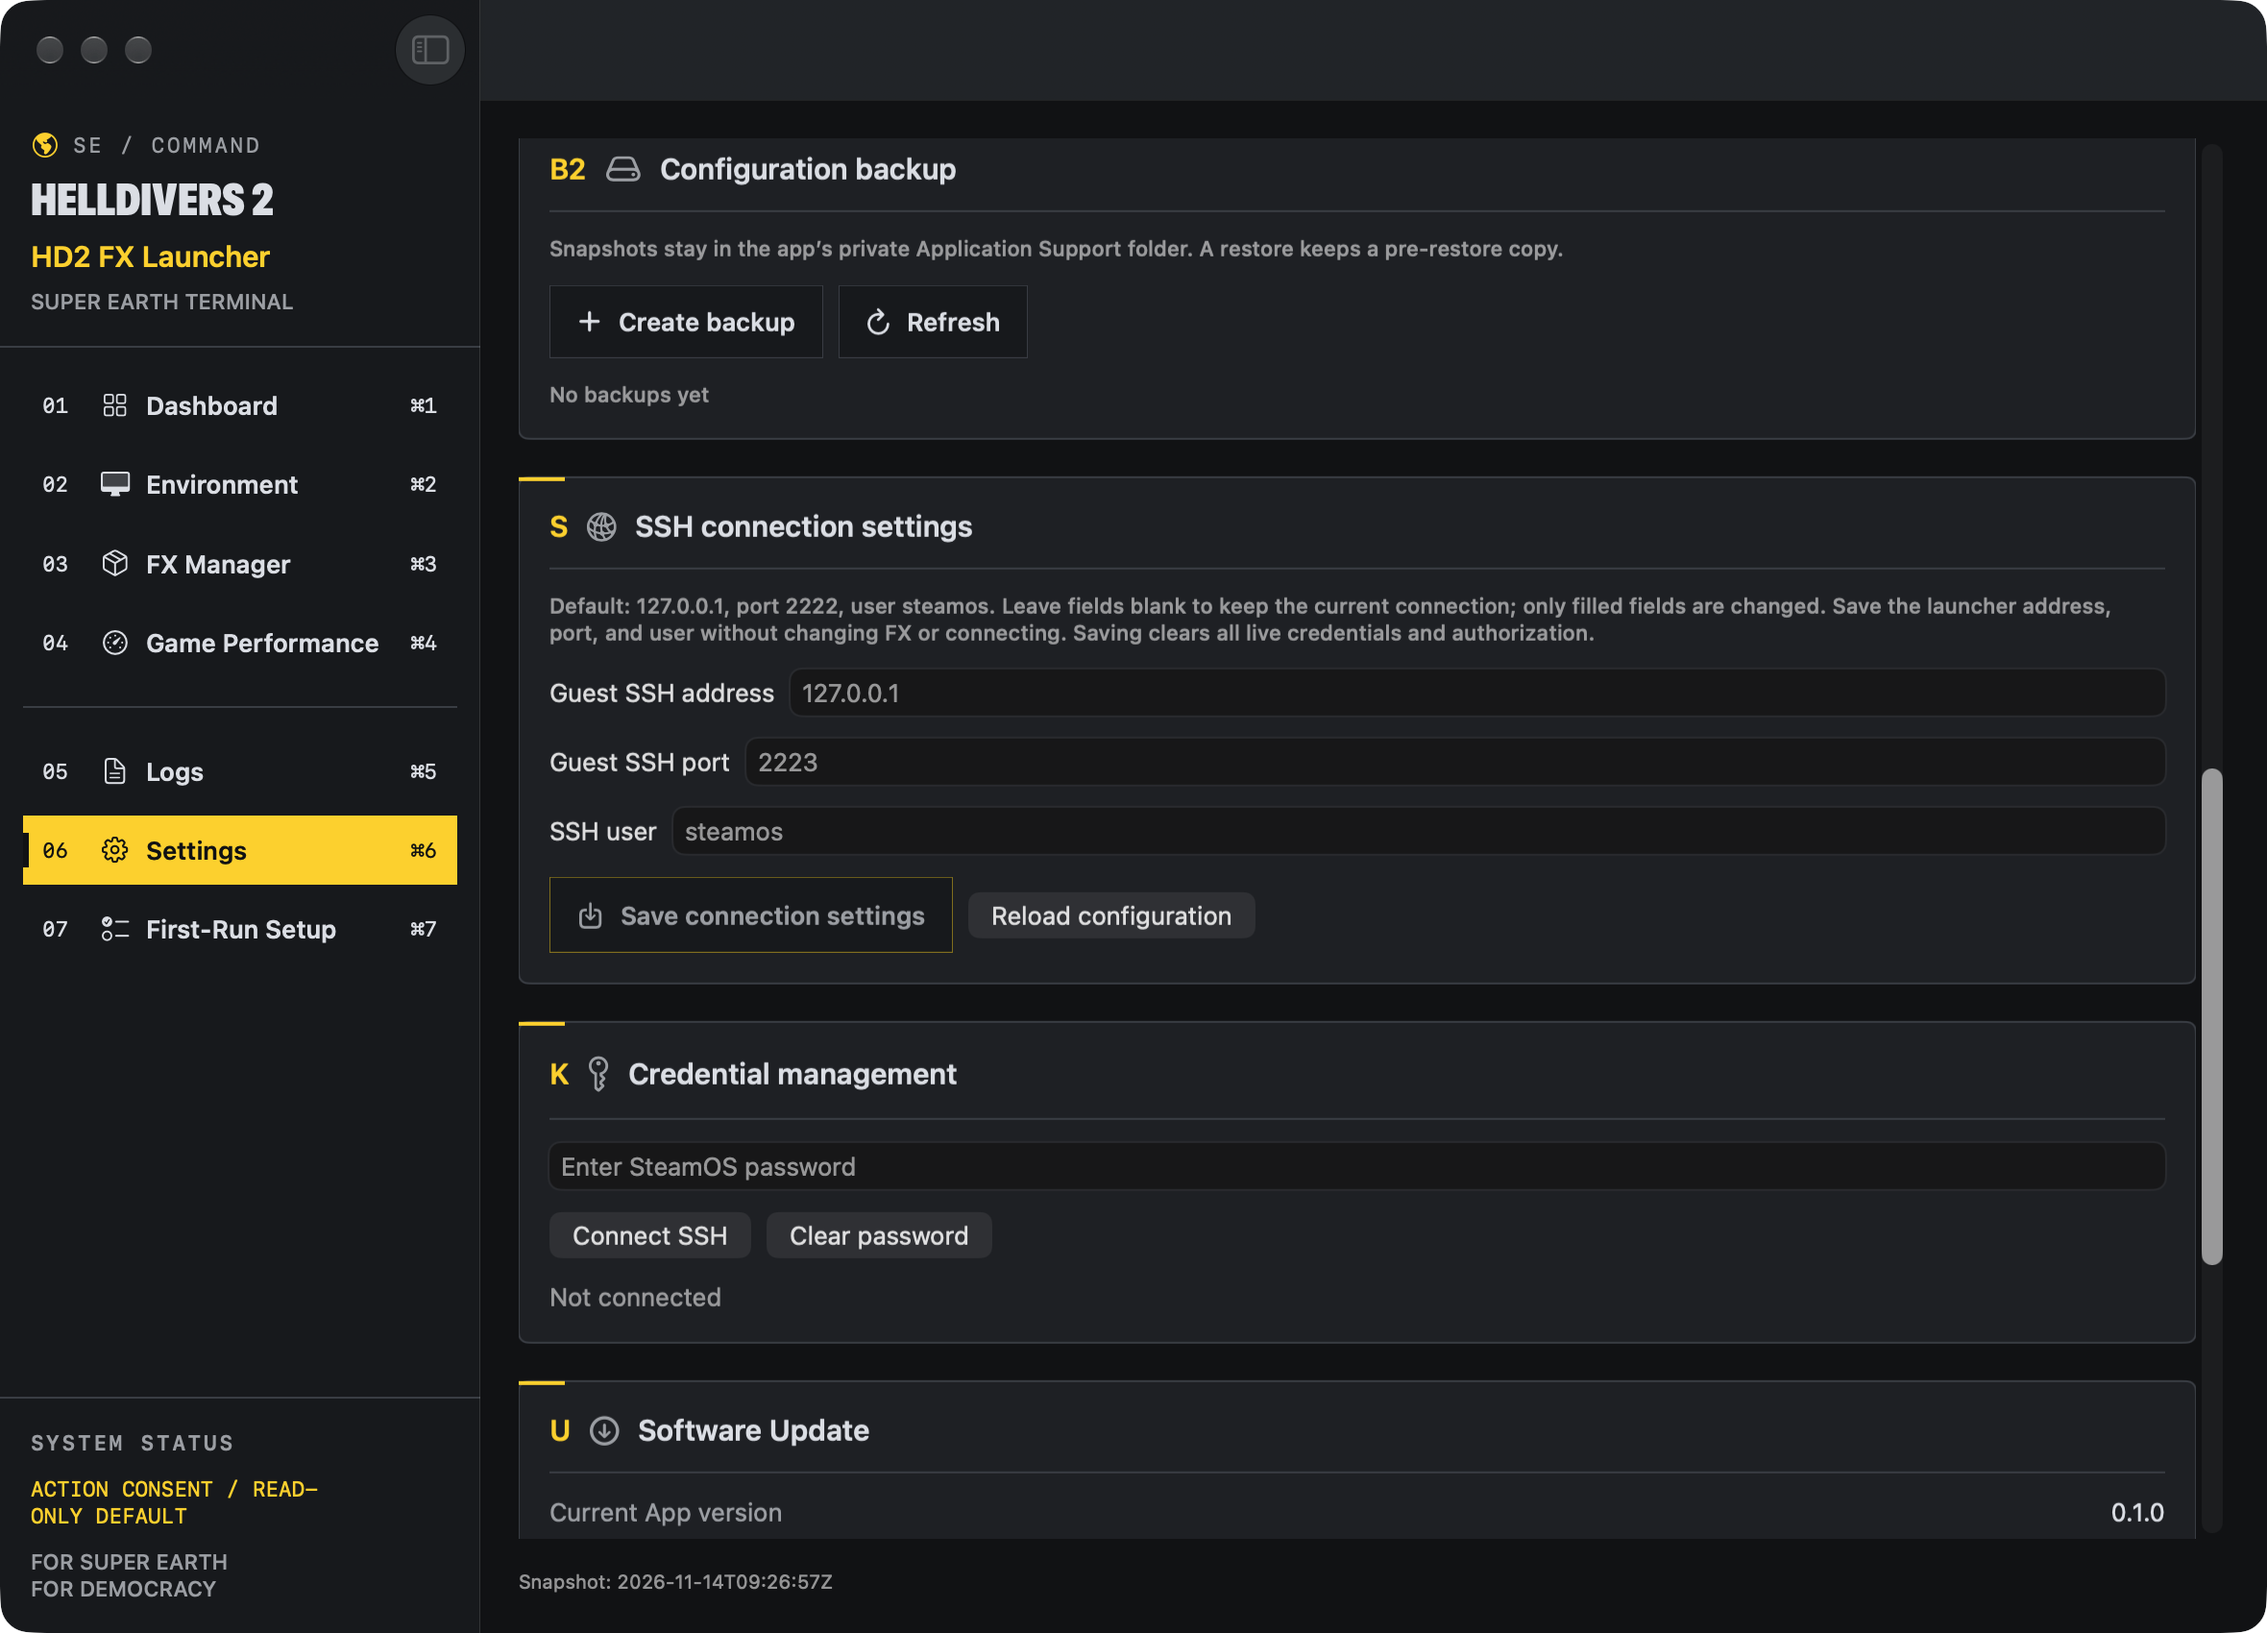
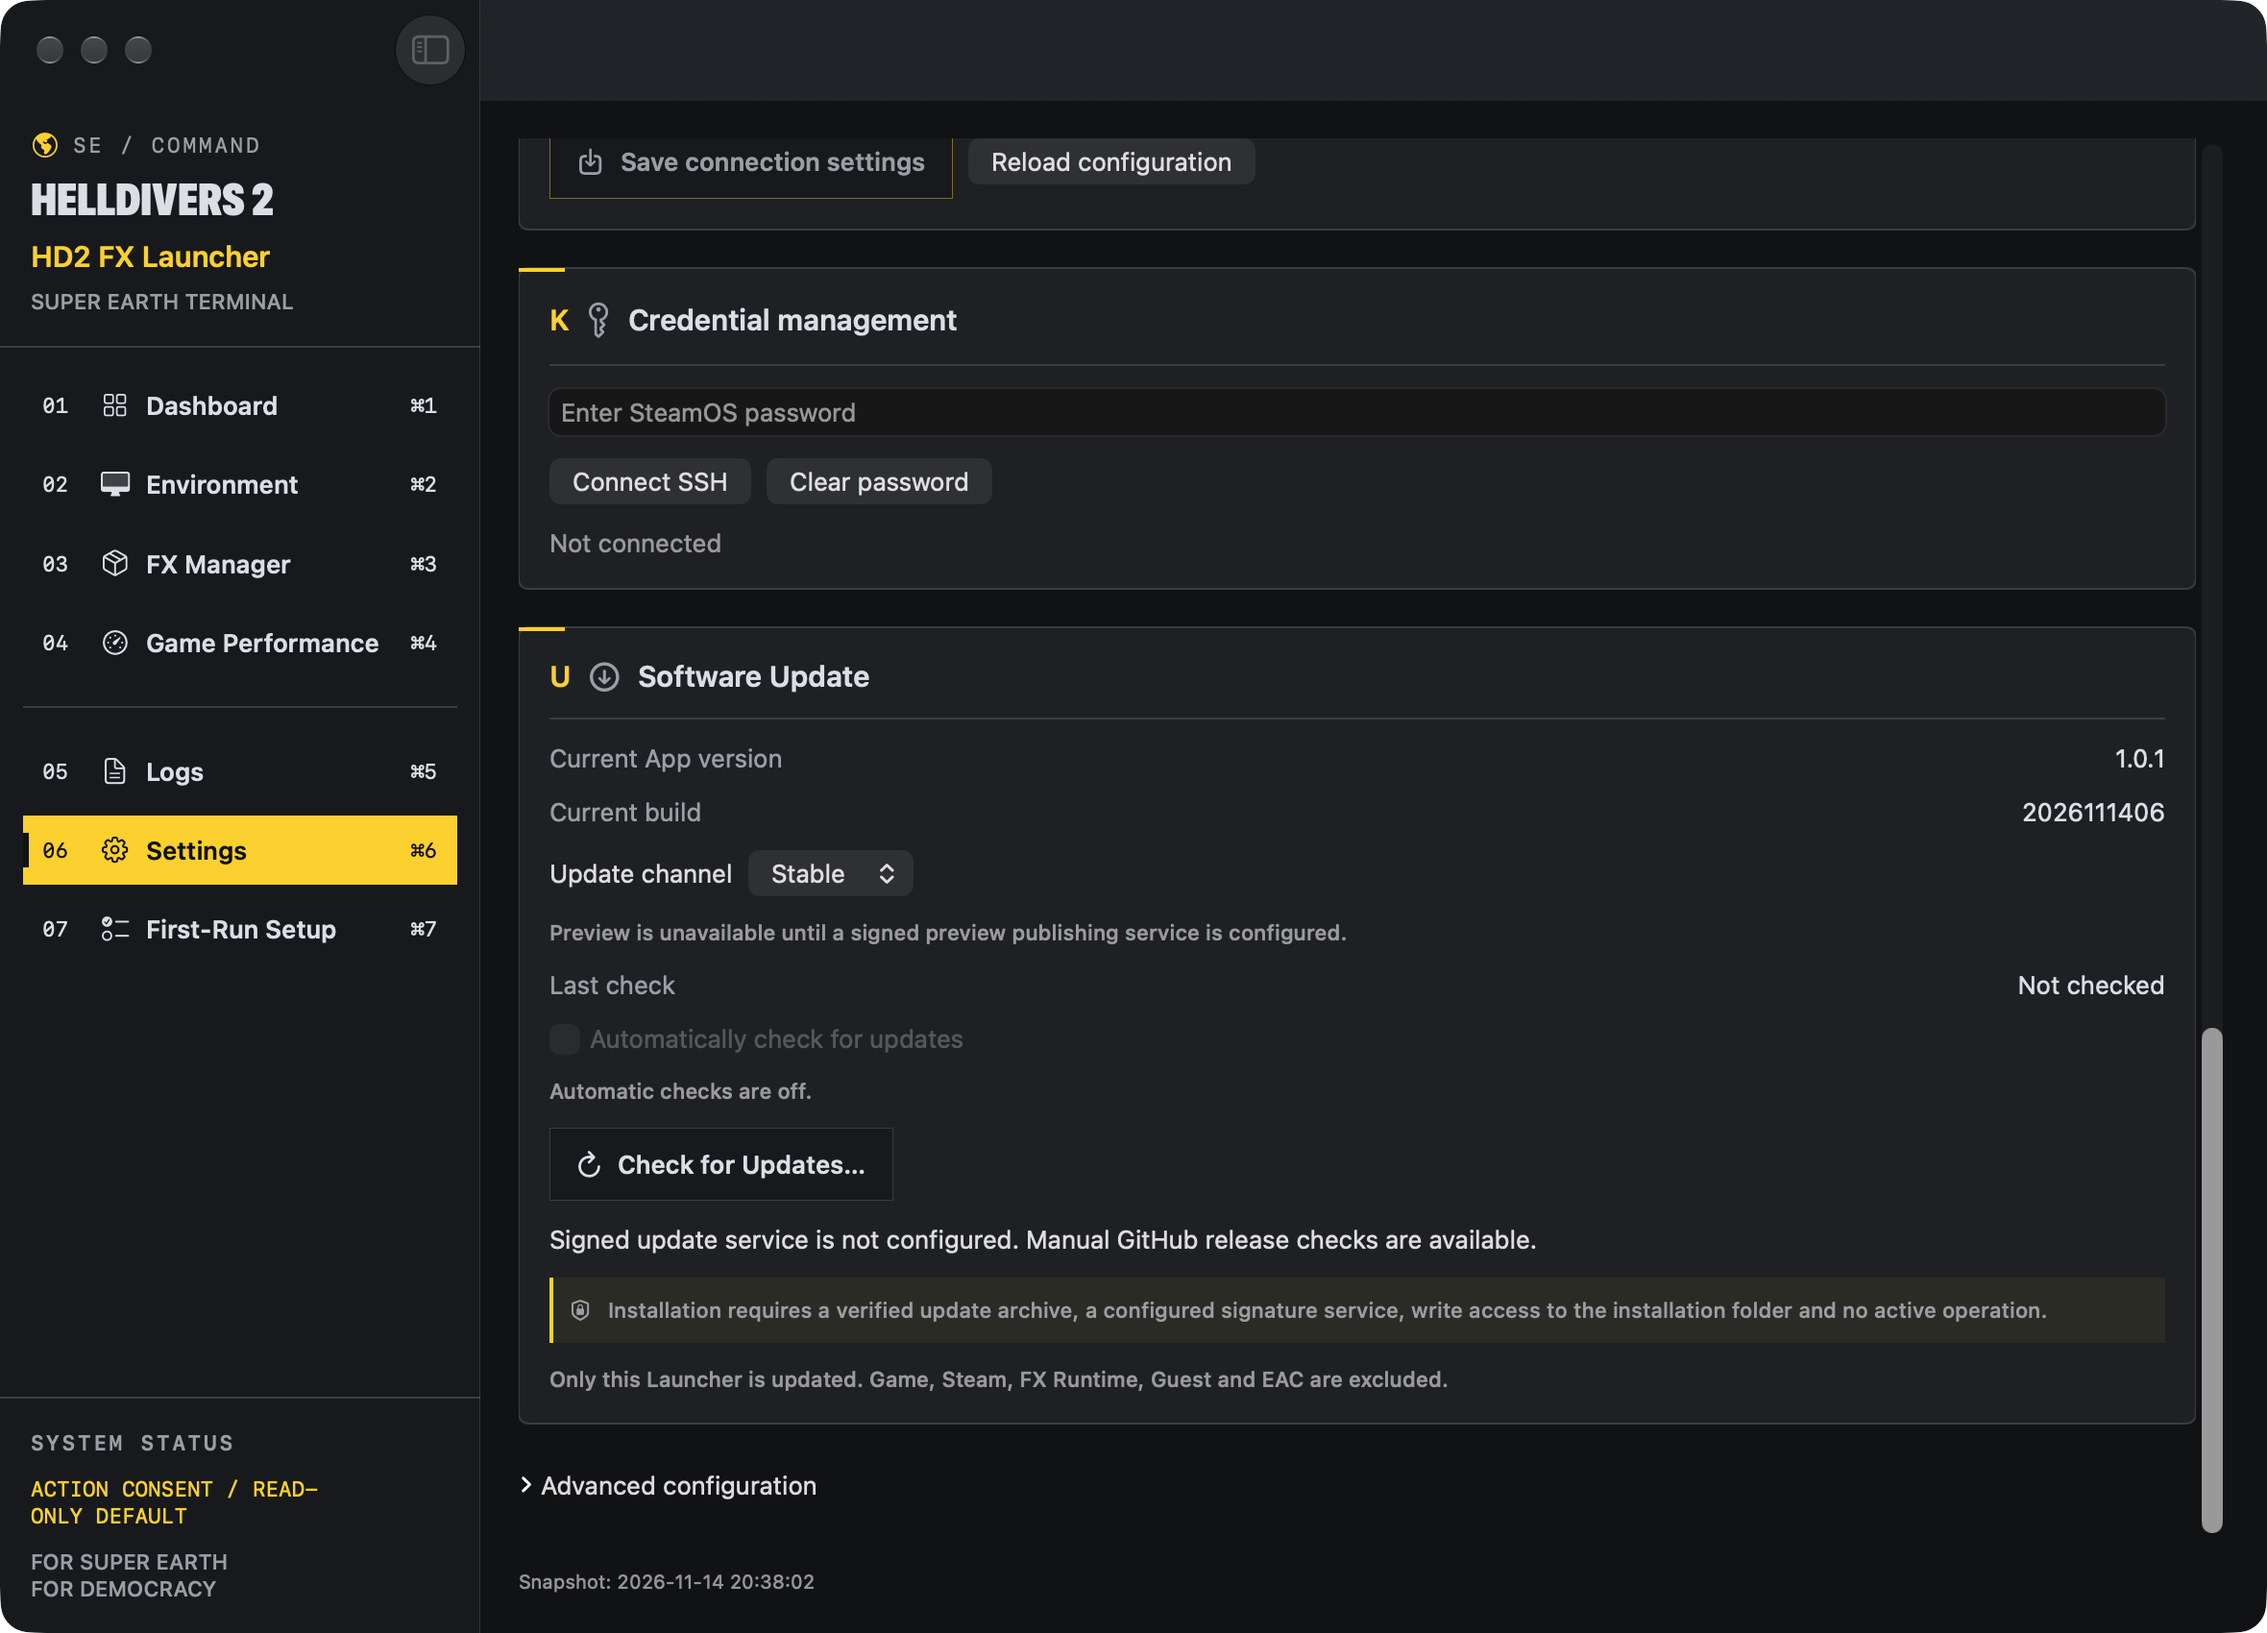
release: prepare v1.0.1 stable updater and bilingual documentation

diff --git a/README.md b/README.md
@@ -6,11 +6,11 @@
 
 [简体中文](README.zh-CN.md) | [English](README.md)
 
-### [🟨 ⬇ Download HD2 FX Launcher — Latest Stable](https://github.com/LSJOP/helldivers2-fx-launcher/releases/download/v1.0.0/HD2FXNative-v1.0.0-macOS-arm64.dmg)
+### [🟨 ⬇ Download HD2 FX Launcher — Latest Stable](https://github.com/LSJOP/helldivers2-fx-launcher/releases/download/v1.0.1/HD2FXNative-v1.0.1-macOS-arm64.dmg)
 
-**🟨 Stable Release · v1.0.0** · **macOS · Apple Silicon / arm64**
+**🟨 Stable Release · v1.0.1** · **macOS · Apple Silicon / arm64**
 
-**[⬇ Download DMG](https://github.com/LSJOP/helldivers2-fx-launcher/releases/download/v1.0.0/HD2FXNative-v1.0.0-macOS-arm64.dmg)** · [All Releases](https://github.com/LSJOP/helldivers2-fx-launcher/releases)
+**[⬇ Download DMG](https://github.com/LSJOP/helldivers2-fx-launcher/releases/download/v1.0.1/HD2FXNative-v1.0.1-macOS-arm64.dmg)** · [All Releases](https://github.com/LSJOP/helldivers2-fx-launcher/releases)
 
 ## English
 
@@ -20,7 +20,7 @@ FX 1.9.9 test-Guest repair now reaches the game through the GUI with the histori
 
 ### Screenshots
 
-These real bilingual windows were captured from the integrated Debug source on 2026-11-14 and visually reviewed. They show development changes under Unreleased, **not the published v1.0.0 DMG**; see [capture provenance](docs/images/README.md).
+Screenshots come from isolated Debug builds. The update panel capture uses a separate App identity and shows the service as unconfigured. See [capture provenance](docs/images/README.md).
 
 The Dashboard retains five cards: FX, virtual machine, Steam, EAC and multiplayer. Green identifies an observed FX/Steam process or a verified Guest SSH connection; yellow means an active check, red an explicit stage failure, and gray missing or stale evidence. Process detection, completed checks and menu/single-player confirmation do not establish EAC loading or multiplayer success. The isolated status matrix validates display logic; it does not establish live game readiness.
 
@@ -36,17 +36,17 @@ The Dashboard retains five cards: FX, virtual machine, Steam, EAC and multiplaye
 
 ### Features
 
-**Development candidate:** The Logs page displays local system time, streams bounded task events, supports auto-scroll and exports redacted raw ISO 8601 timestamps. Launch command success, process detection, window and gameplay remain separate; game-window and gameplay evidence are not automatic. This change is not included in the published v1.0.0 DMG.
+The Logs page displays local system time, streams bounded task events, supports auto-scroll and exports redacted raw ISO 8601 timestamps. Launch command success, process detection, window and gameplay remain separate; game-window and gameplay evidence are not automatic.
 
 - Dashboard starts the guarded HELLDIVERS 2 launch workflow. FX Manager inspects the selected FX installation and exposes supported FX/Steam actions.
 - First-Run Setup checks Guest identity, runtime capabilities and component integrity. Approved configuration can install the pinned Proton-JE package, select a verified Steam compatibility tool and merge launch options while retaining custom arguments. Detection is read-only. Deployment and recovery require their own checks.
 - Environment reports FEX and Proton-JE evidence. SSH and sudo credentials can be stored separately in encrypted local storage for a verified target; reuse after restart still requires real-world acceptance.
 - The Swift App provides seven native pages, logs, scoped performance controls and ten interface languages. Optional SteamOS installation steps require Python 3.
-- Settings includes Sparkle update integration. The v1.0.0 bundle has no configured update key or service; a trusted manual installation is required to bootstrap a future updater. End-to-end installation and recovery remain unverified.
+- In v1.0.1, open Settings → Software Update to check for and install later stable releases. Upgrade once from v1.0.0 using the official DMG.
 
 ### Installation
 
-Current App: `1.0.0` (build `2026111403`), macOS 14+ Apple Silicon arm64. Ad-hoc signed; no Apple Developer ID signature or Apple notarization. Gatekeeper may block the download. Verify the [SHA-256 file](https://github.com/LSJOP/helldivers2-fx-launcher/releases/download/v1.0.0/HD2FXNative-v1.0.0-macOS-arm64.dmg.sha256) before opening. If blocked, use Privacy & Security → Open Anyway for the verified App.
+Current App: `1.0.1` (build `2026111406`), macOS 14+ Apple Silicon arm64. Ad-hoc signed; no Apple Developer ID signature or Apple notarization. Gatekeeper may block the download. Verify the [SHA-256 file](https://github.com/LSJOP/helldivers2-fx-launcher/releases/download/v1.0.1/SHA256SUMS.txt) before opening. If blocked, use Privacy & Security → Open Anyway for the verified App.
 
 1. Download the macOS arm64 DMG from the published release.
 2. Run `shasum -a 256 <downloaded-dmg>` and compare the result with the SHA-256 in the release notes. Open the DMG after they match.
@@ -59,7 +59,7 @@ For source builds, see the [development guide](docs/NATIVE_DEVELOPMENT.md).
 
 ### Known Issues
 
-Release scope: shared launch/retry fixes and local encrypted SSH/sudo storage are included in this artifact. FX 1.9.9 test GUI launch and user-confirmed menu/ship are recorded. Single-player, EAC/multiplayer, fresh deployments and full Sparkle installation/rollback remain unverified. The bundled public updater is disabled/unconfigured; use the Release DMG for manual installation. Production FX 1.9.12 was only inspected offline.
+Earlier FX 1.9.9 testing reached the game menu and ship. Single-player, EAC, multiplayer and fresh environment deployment remain unverified.
 
 
 - FX and SteamOS compatibility depends on the selected build and runtime evidence. The current launch path has a recorded proxy mismatch. Safe FX stop/restart remains unavailable.
@@ -70,7 +70,7 @@ Release scope: shared launch/retry fixes and local encrypted SSH/sudo storage ar
 
 ### Changelog
 
-[v1.0.0 — 2026-11-14](https://github.com/LSJOP/helldivers2-fx-launcher/releases/tag/v1.0.0) · Stable release, build `2026111403`. See [release notes](CHANGELOG.md).
+[v1.0.1 — 2026-11-14](https://github.com/LSJOP/helldivers2-fx-launcher/releases/tag/v1.0.1) · Stable release, build `2026111406`. See [release notes](CHANGELOG.md).
 
 Unreleased changes include Dashboard launch, first-run Proton-JE verification and Steam configuration, experimental FEX review and recovery, and SSH authentication fixes. See the [changelog](CHANGELOG.md) and [original launcher history](https://github.com/LSJOP/helldivers2-fx-launcher/tree/legacy-script).
 
@@ -87,5 +87,3 @@ Development resumes from [current status](docs/DEVELOPMENT_STATUS.md) and [hando
 Update development: v1.0.1 candidate pins a stable Ed25519 public key, with the private key stored outside the repository and App. Production update service remains disabled. The installer candidate uses the already downloaded and verified ZIP. Signed fixture apps exercise actual replacement and startup confirmation. Full launcher UI upgrade and recovery from an interrupted Helper remain pending.
 
 Interrupted native update transactions can be recovered on the next App launch. The production feed remains disabled pending full upgrade acceptance.
-
-PR #4 uses a separate GitHub pre-release channel with its own signing key, App identity, preferences and data. These ad-hoc builds may be subject to macOS Gatekeeper. The stable updater remains disabled.

diff --git a/docs/DEVELOPMENT_STATUS.md b/docs/DEVELOPMENT_STATUS.md
@@ -173,3 +173,5 @@ Swift 服务保留签名清单原始字节和签名，将已经下载的 ZIP 交
 隔离测试使用临时密钥和实际 ad-hoc 签名的 AppKit 测试包，不读取正式私钥或用户数据。Helper 若被强制终止，现场、日志及交换后的旧包会保留在 .HD2FXNative-update，后续安装会拒绝覆盖。自动接管中断事务、真实启动器单击跨版本升级和用户配置保留验收仍待完成。生产服务继续关闭。
 
 PR #4 已发布隔离签名更新测试包 v1.0.1-update-test.1 和 v1.0.2-update-test.1，稳定版服务保持关闭。真实设置页升级须以下载日志、启动确认及设置对比验收。
+
+2026-11-14：隔离 GitHub 更新已实测保留真实 FX 测试路径、语言和主题。实际低空间卷、不可写安装目录及中断恢复通过。v1.0.1 构建 2026111406 使用 GitHub Releases 稳定渠道。

diff --git a/docs/NATIVE_APP_DEVELOPMENT_HANDOFF.md b/docs/NATIVE_APP_DEVELOPMENT_HANDOFF.md
@@ -209,3 +209,5 @@ Swift 服务保留签名清单原始字节和签名，将已经下载的 ZIP 交
 隔离测试使用临时密钥和实际 ad-hoc 签名的 AppKit 测试包，不读取正式私钥或用户数据。Helper 若被强制终止，现场、日志及交换后的旧包会保留在 .HD2FXNative-update，后续安装会拒绝覆盖。自动接管中断事务、真实启动器单击跨版本升级和用户配置保留验收仍待完成。生产服务继续关闭。
 
 续测 PR #4 的隔离测试版：在 1.0.1-update-test.1 设置页检查更新并单击下载安装，核对 ZIP 网络事务、同路径新版启动、安装日志和隔离偏好。
+
+2026-11-14：隔离 GitHub 更新已实测保留真实 FX 测试路径、语言和主题。实际低空间卷、不可写安装目录及中断恢复通过。v1.0.1 构建 2026111406 使用 GitHub Releases 稳定渠道。

diff --git a/CHANGELOG.md b/CHANGELOG.md
@@ -187,6 +187,11 @@ The development entries below retain earlier stage evidence; the published relea
 - Safe FX stop/restart and validated automatic performance recommendations remain unavailable. Saved settings are not proof of runtime adoption; the original launch preflight may reject custom values.
 - Ground missions, independent EAC acceptance and multiplayer remain unverified.
 
+### v1.0.1 — 2026-11-14
+
+- Stable in-app updates verify Ed25519 and SHA-256, download once, install and restart automatically, and roll back on startup failure.
+- Appearance persists across restarts. Upgrade once from v1.0.0 using the DMG.
+
 ### v1.0.0 — 2026-11-14
 
 Stable release: App version `1.0.0`, build `2026111403`, macOS 14+ arm64. Reuses the existing Release DMG built from `4119d65e64468afaa763cf8ffc134a34786bb83f`; no rebuild or version change.
